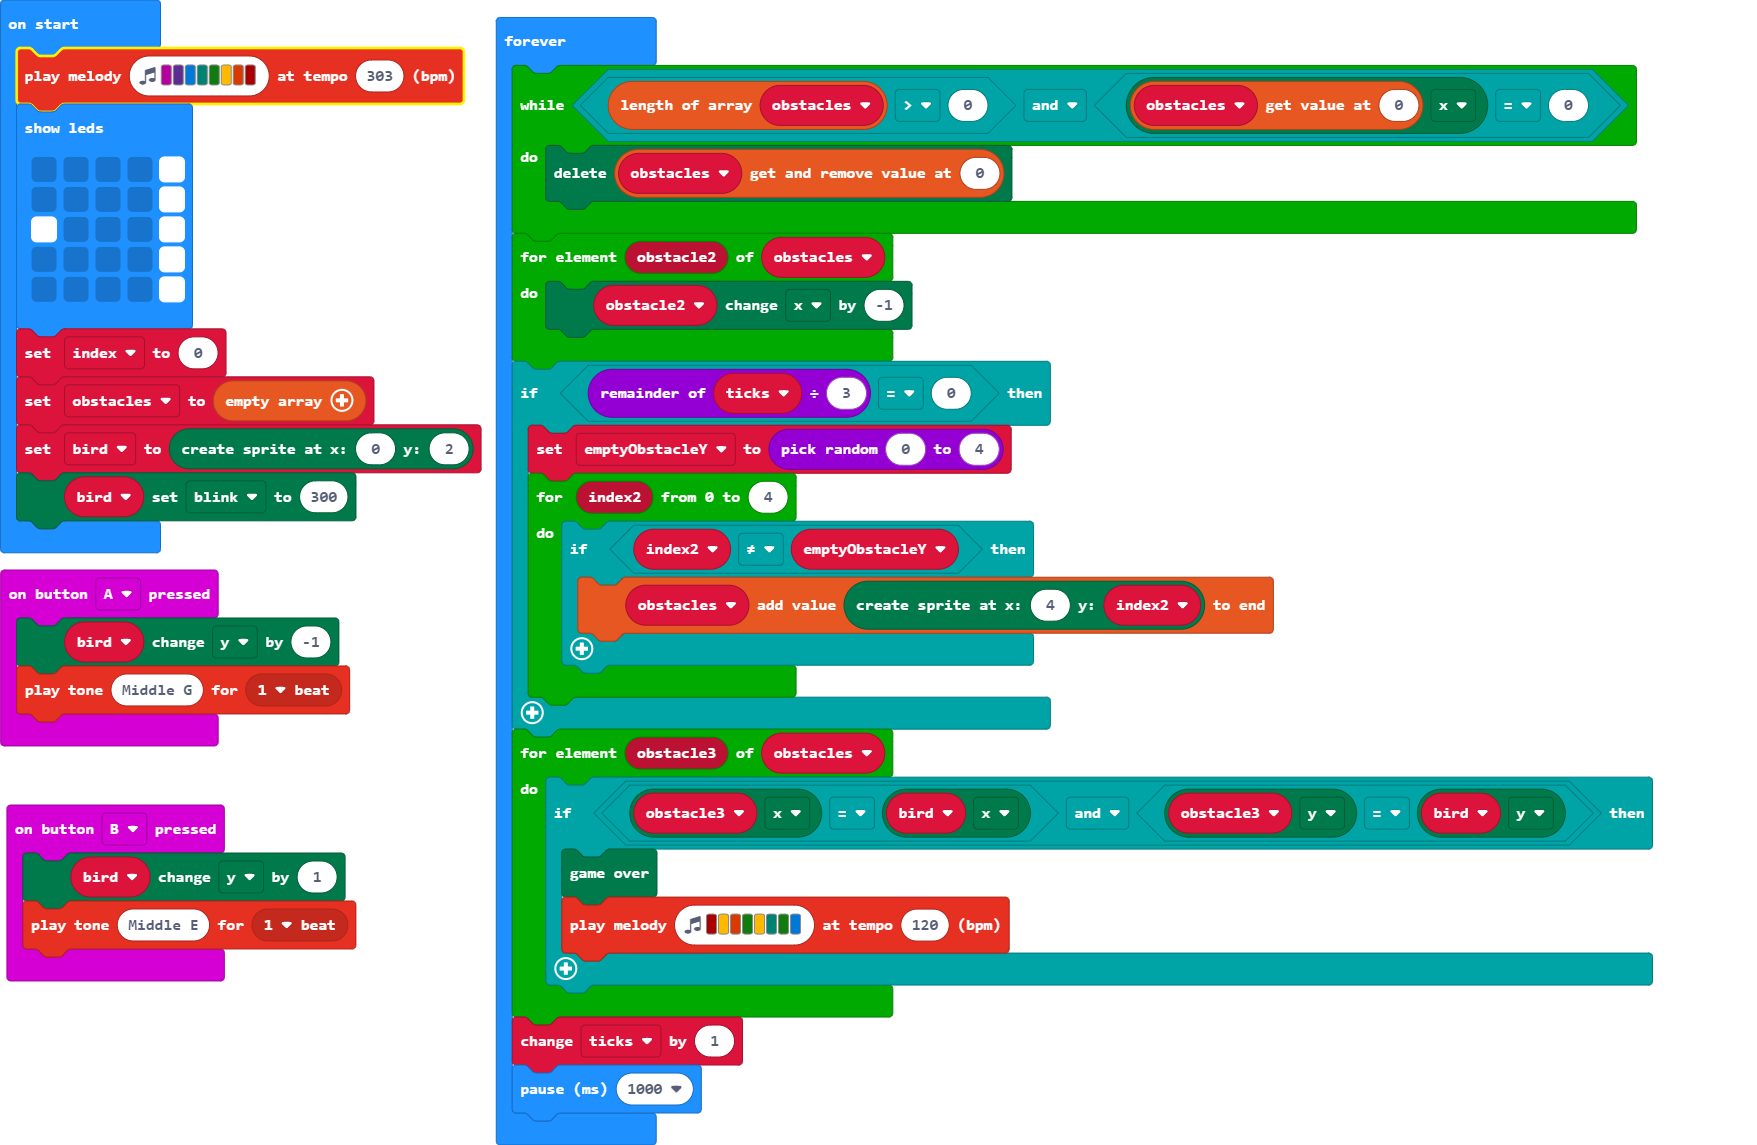
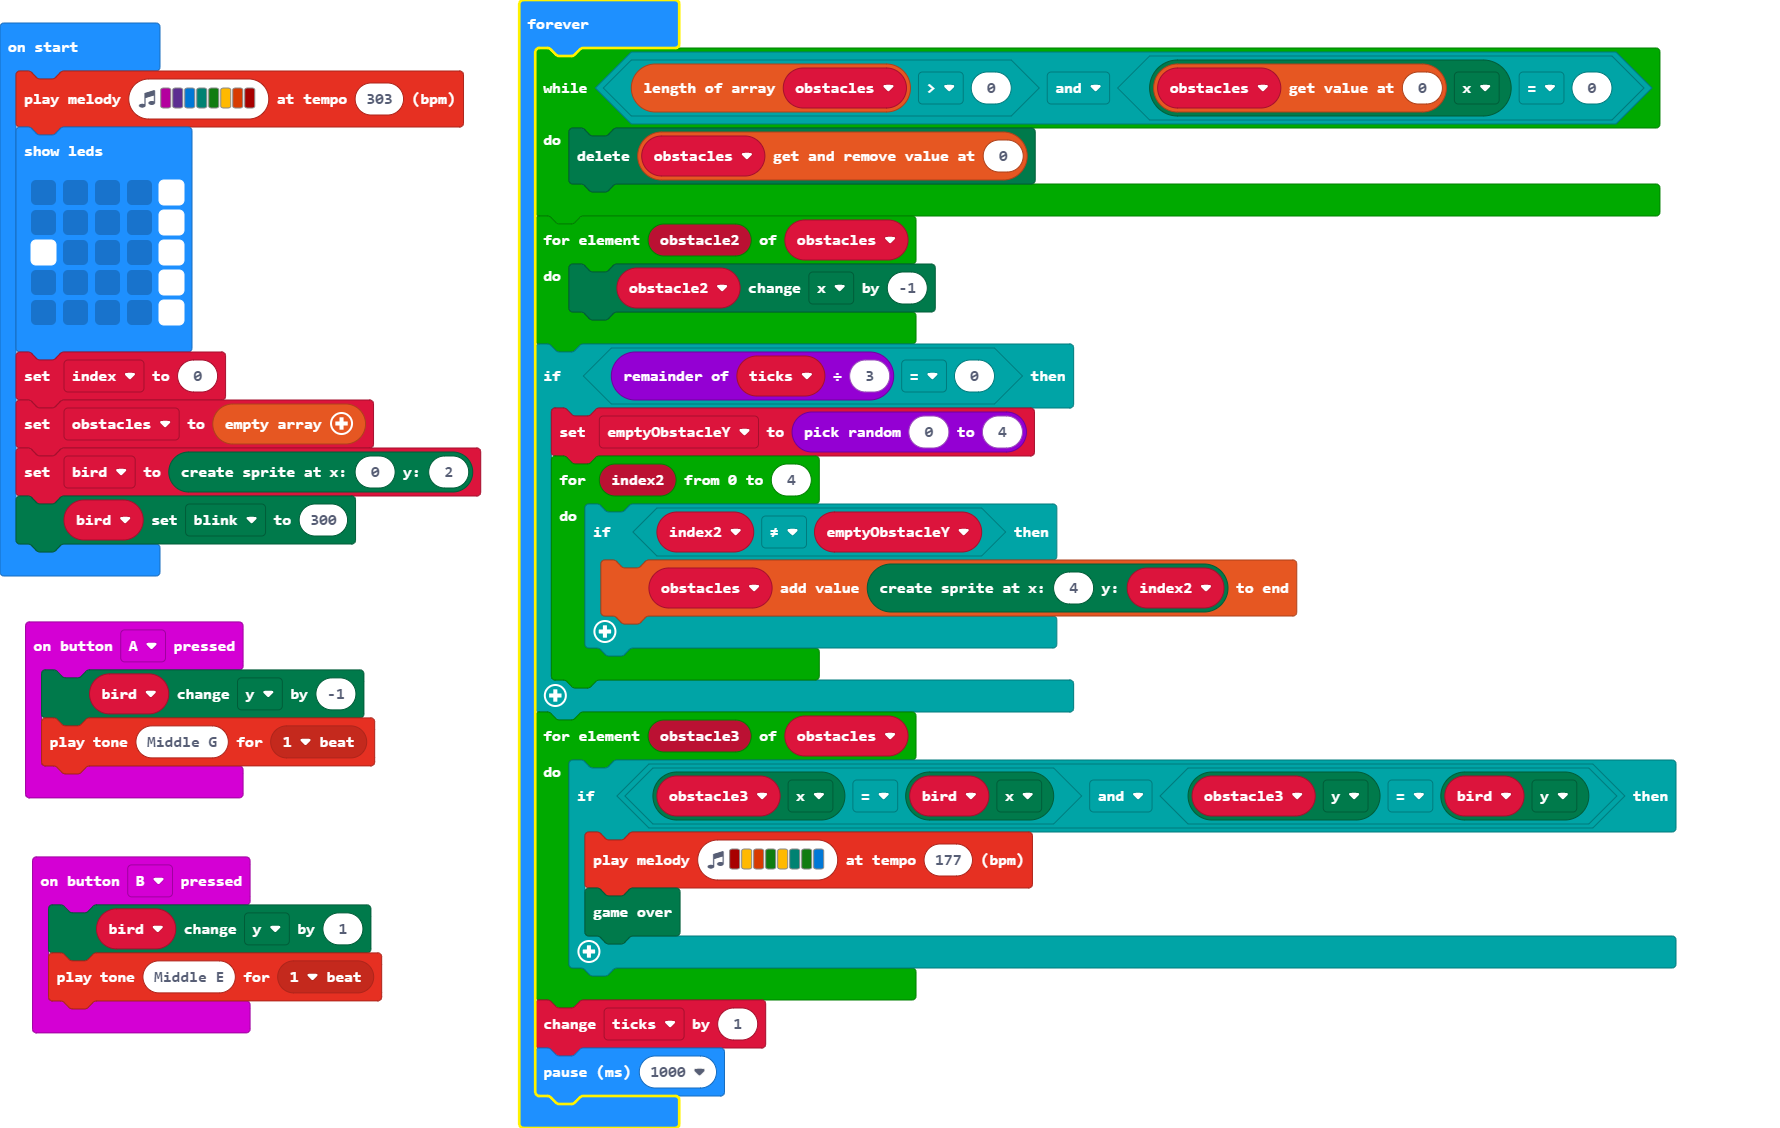
Fixed the GAME OVER melody

diff --git a/main.ts b/main.ts
@@ -38,8 +38,8 @@ basic.forever(function () {
     }
     for (let obstacle3 of obstacles) {
         if (obstacle3.get(LedSpriteProperty.X) == bird.get(LedSpriteProperty.X) && obstacle3.get(LedSpriteProperty.Y) == bird.get(LedSpriteProperty.Y)) {
+            music.playMelody("C5 A B G A F G E ", 177)
             game.gameOver()
-            music.playMelody("C5 A B G A F G E ", 120)
         }
     }
     ticks += 1
